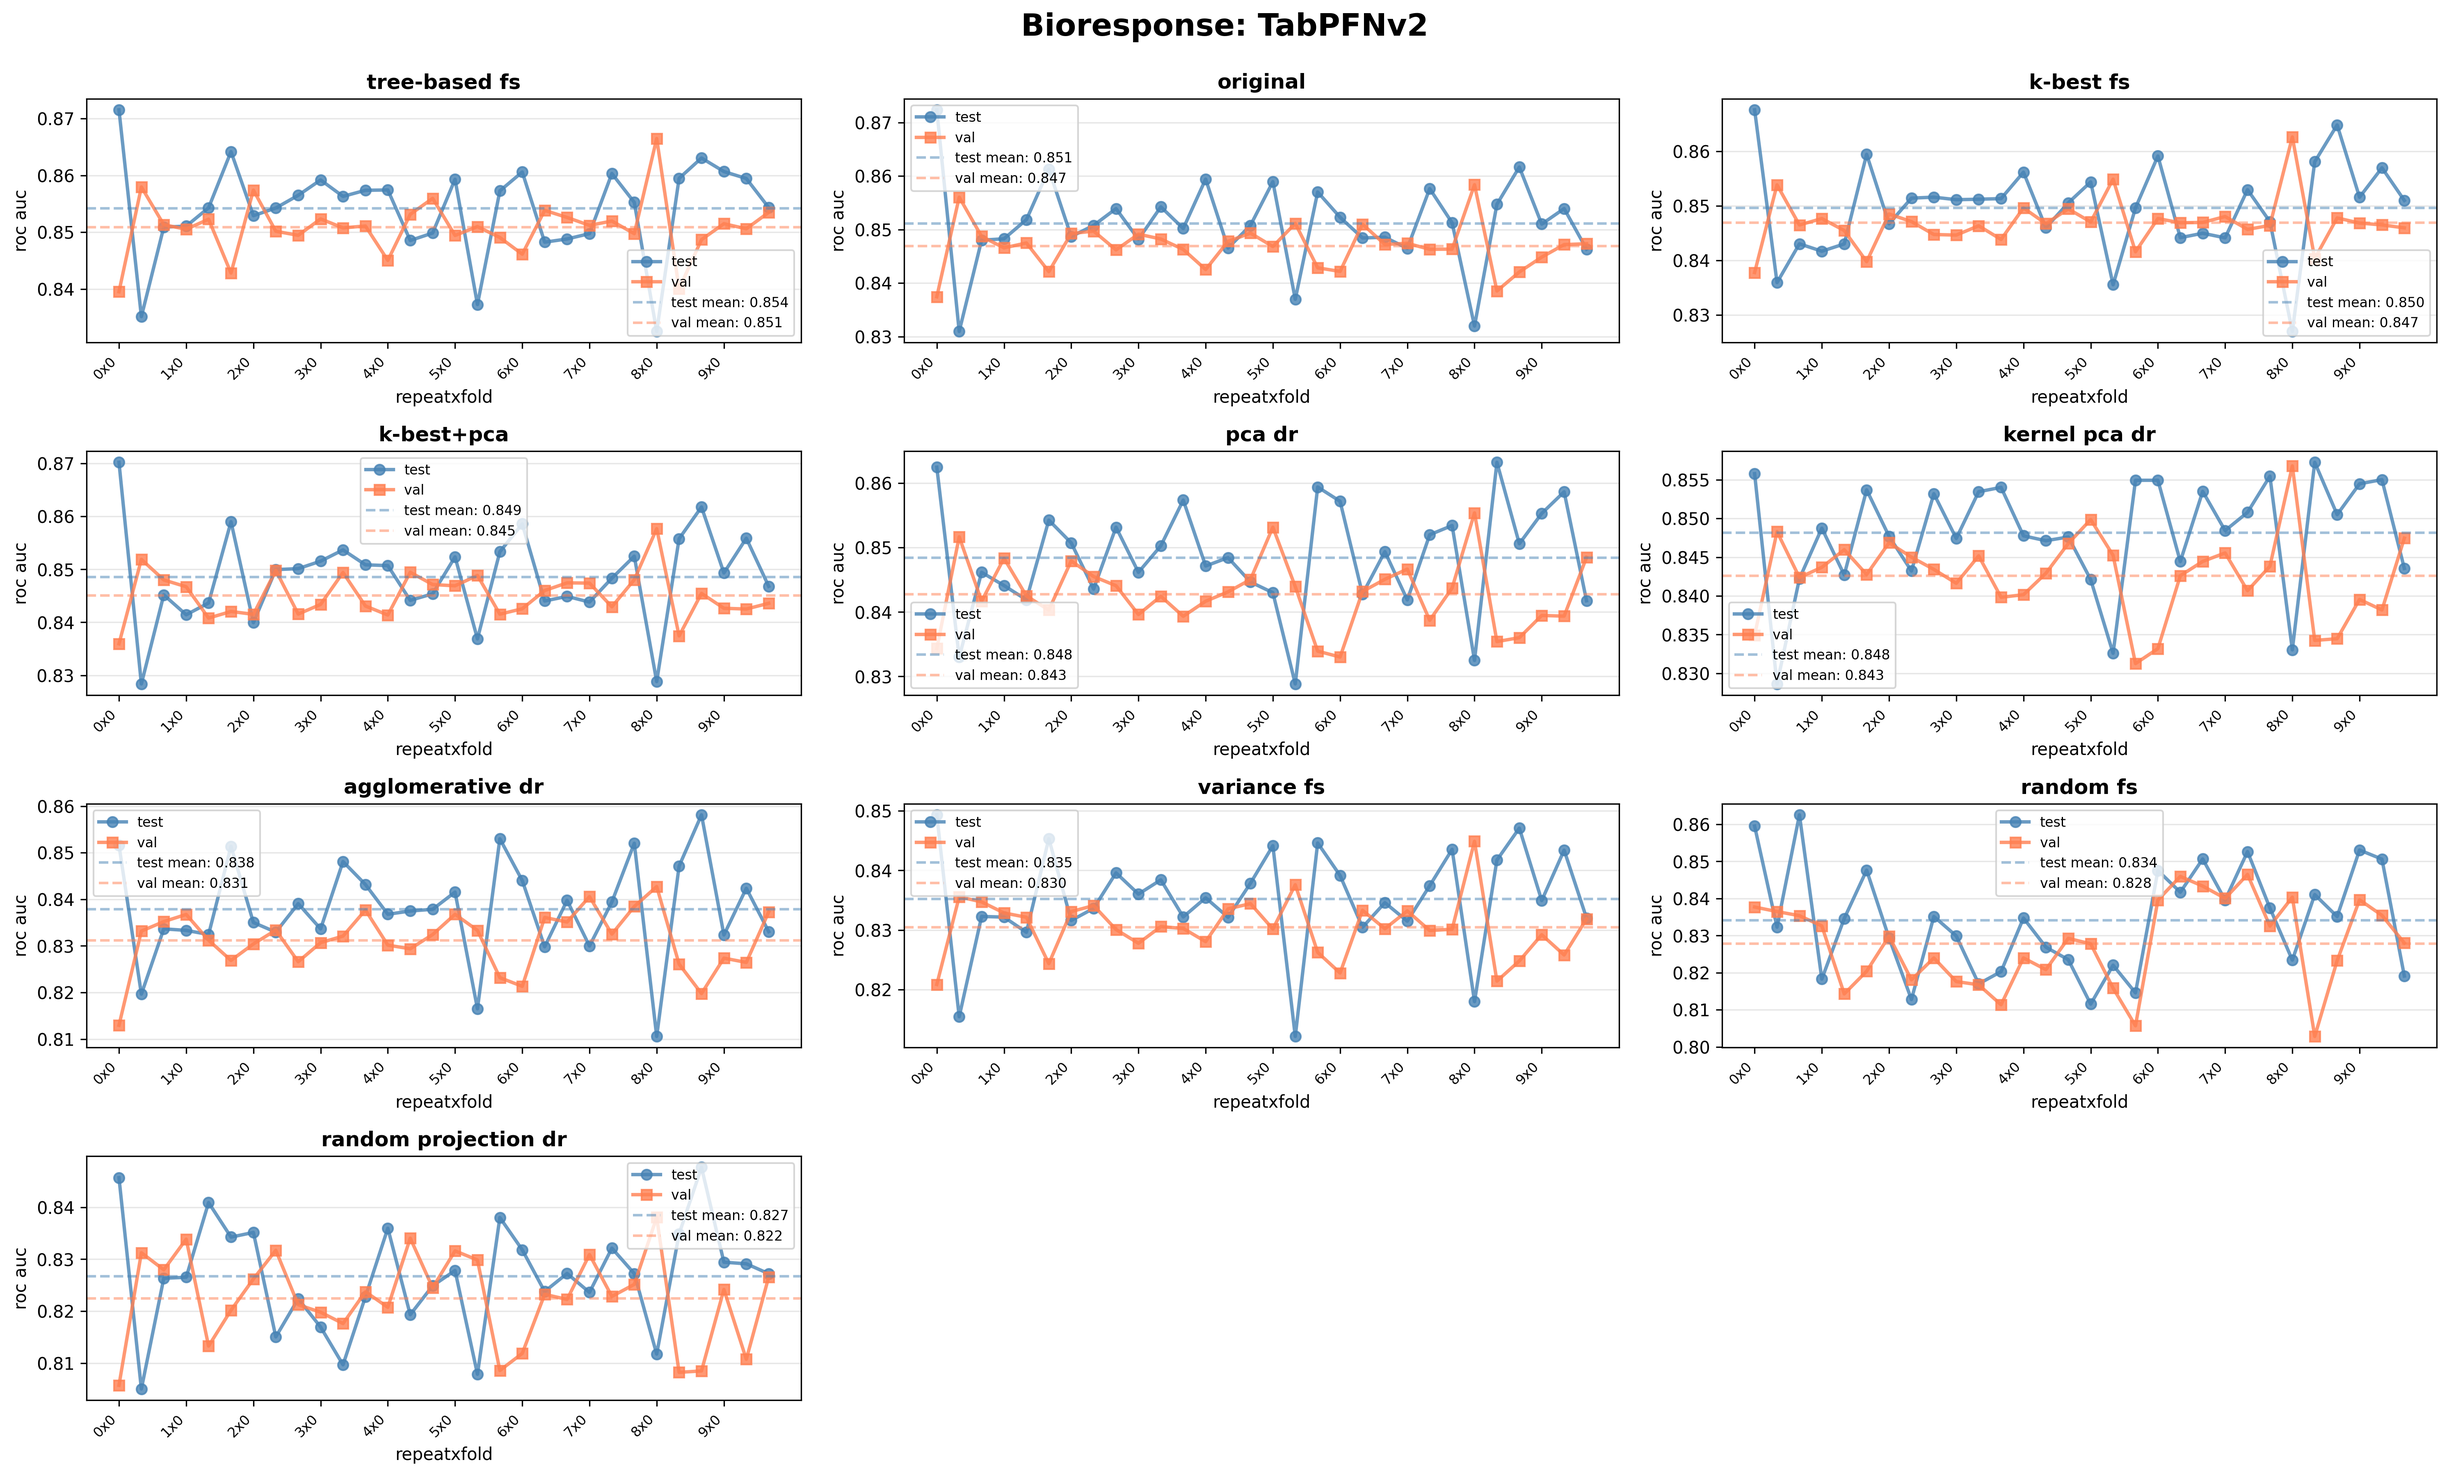
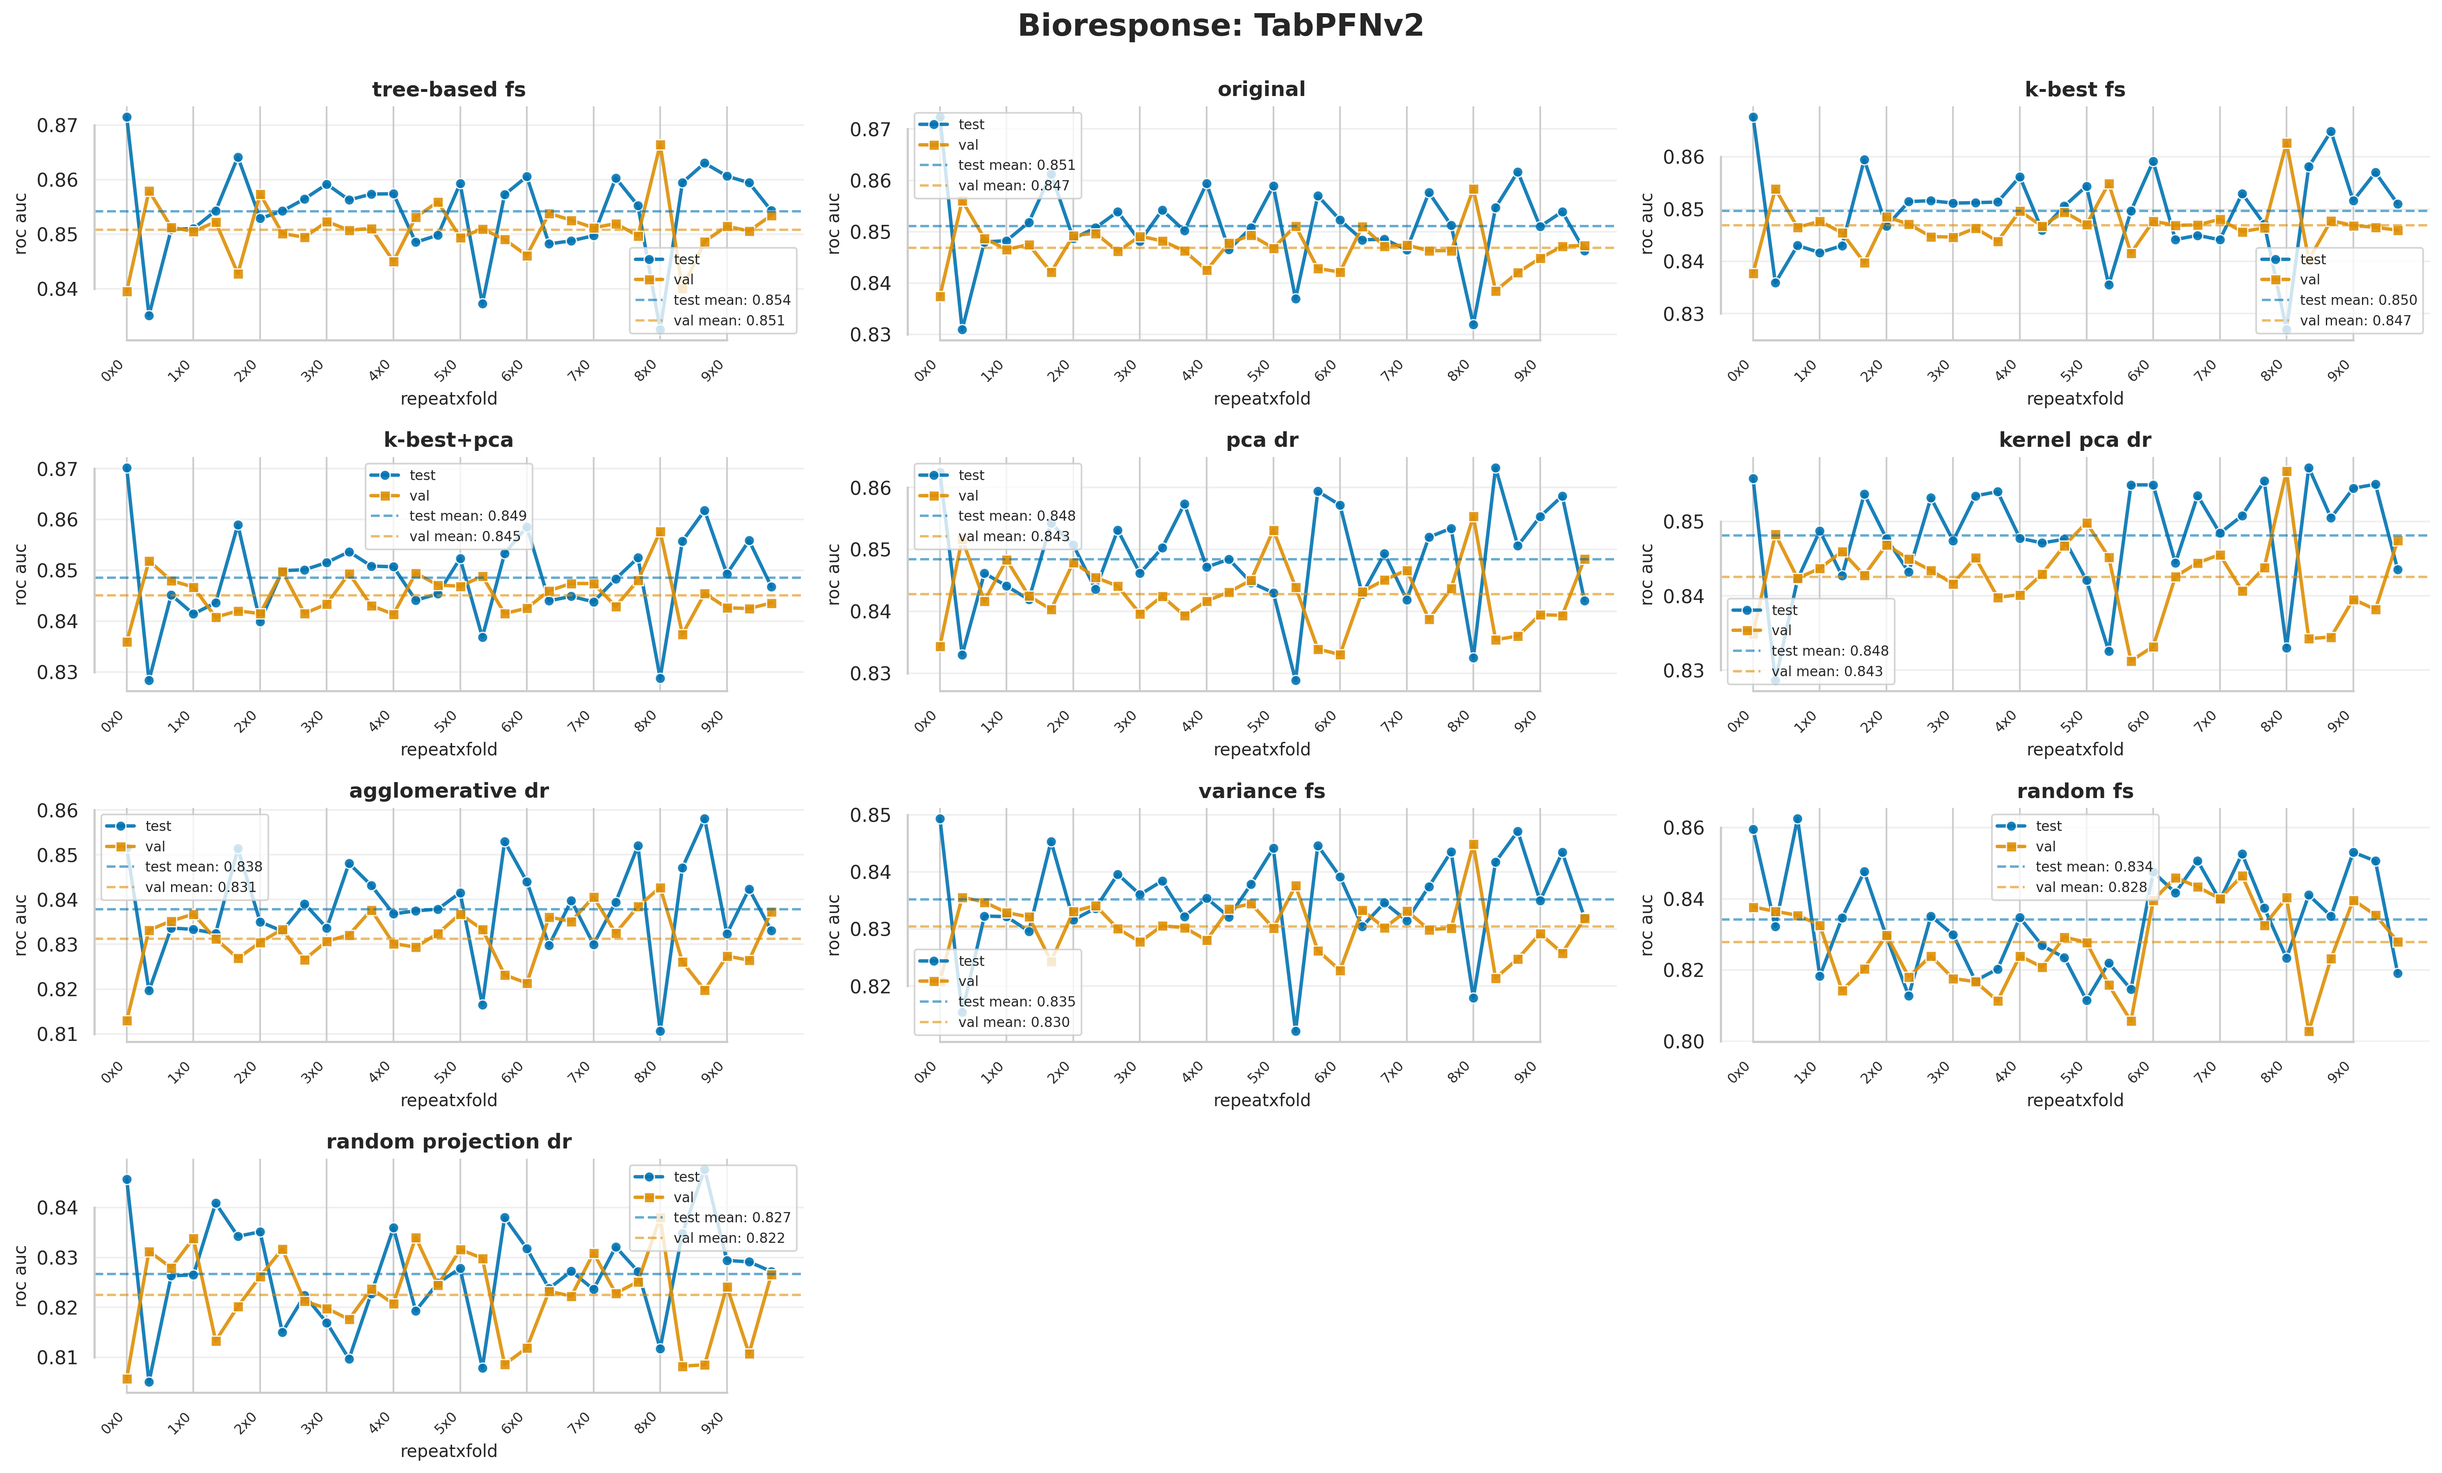
Update plots with seaborn

diff --git a/src/utils/plotting.py b/src/utils/plotting.py
@@ -1,5 +1,10 @@
 import os
 import pandas as pd
+import hashlib
+import seaborn as sns
+
+from matplotlib.colors import to_hex
+
 
 def load_results(rootdir, requested_columns=[]):
     columns = ["dataset_name", "method", "model", "repeat", "fold"] + requested_columns
@@ -45,3 +50,54 @@ def merge_results(root_dirs):
         comb_results[model] = avg_results
     
     return comb_results, dataset, metric
+
+def build_model_color_map(display_name_map, palette="colorblind", overrides=None):
+    """
+    Create a stable mapping: model_key -> hex color using a Seaborn palette.
+
+    Stability comes from the insertion order of `display_name_map` (Python 3.7+ preserves it).
+    If you always define the models in the same order, colors stay fixed across runs.
+
+    Args:
+        display_name_map (dict): {model_key: display_name}. Keys define color order.
+        palette (str | list): Seaborn palette name or color list.
+        overrides (dict | None): Optional {model_key: "#RRGGBB"} to force specific colors.
+
+    Returns:
+        dict: {model_key: "#RRGGBB"}
+    """
+    overrides = overrides or {}
+    keys = list(display_name_map.keys())
+    pal = sns.color_palette(palette, n_colors=len(keys))
+
+    color_map = {}
+    j = 0
+    for i, k in enumerate(keys):
+        if k in overrides:
+            color_map[k] = overrides[k]
+        else:
+            # If overrides reduced available palette positions, keep assigning sequentially
+            color_map[k] = to_hex(pal[j % len(pal)])
+            j += 1
+    return color_map
+
+
+def color_for_model(model_key, base_color_map, palette="colorblind", cycle_len=12):
+    """
+    Deterministic color for models not present in `base_color_map`.
+    Uses MD5 of the key to pick a stable index in a small palette.
+
+    Args:
+        model_key (str): The model identifier.
+        base_color_map (dict): Known {model_key: "#RRGGBB"}.
+        palette (str | list): Seaborn palette name or color list for fallback.
+        cycle_len (int): Size of the fallback palette.
+
+    Returns:
+        str: "#RRGGBB" color.
+    """
+    if model_key in base_color_map:
+        return base_color_map[model_key]
+    pal = sns.color_palette(palette, n_colors=cycle_len)
+    idx = int(hashlib.md5(model_key.encode("utf-8")).hexdigest(), 16) % cycle_len
+    return to_hex(pal[idx])

diff --git a/src/models/tabarena_model.py b/src/models/tabarena_model.py
@@ -79,6 +79,7 @@ class TabArenaModel(TabModel):
                 problem_type=self.task_type,
                 eval_metric=self.eval_metric,
                 name=self.model_name,
+                path=self.model_checkpoints_dir,
                 **base_config
             )
             self.model = BaggedEnsembleModel(
@@ -90,7 +91,6 @@ class TabArenaModel(TabModel):
             self.model.params.update({
                 "fold_fitting_strategy": "sequential_local", 
             })
-            # breakpoint()
             self.model = self.model.fit(X=X, y=y, k_fold=8) # already stores the oof preds
 
             score = self.model.score_with_oof(y=y)
